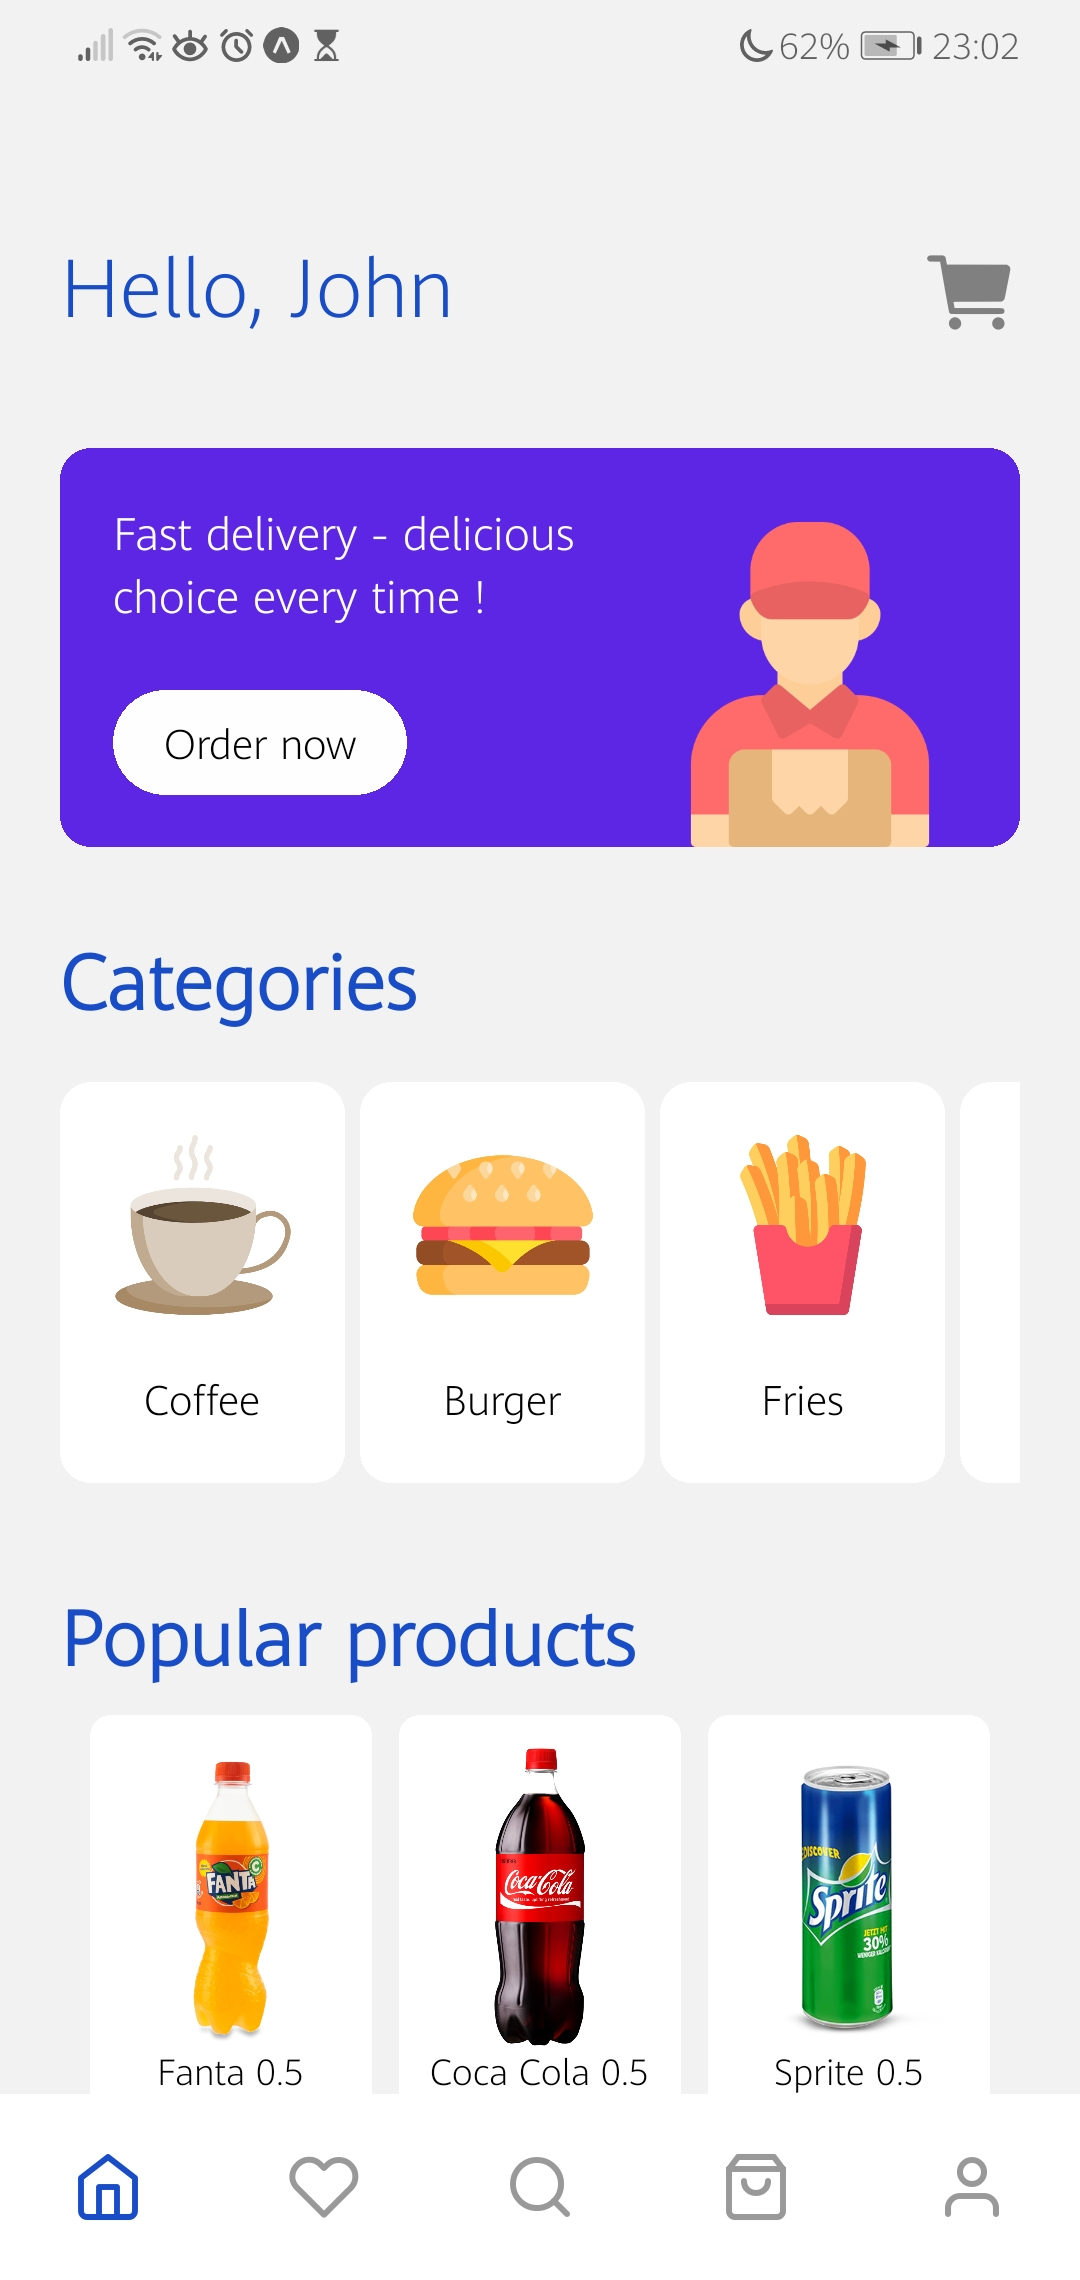
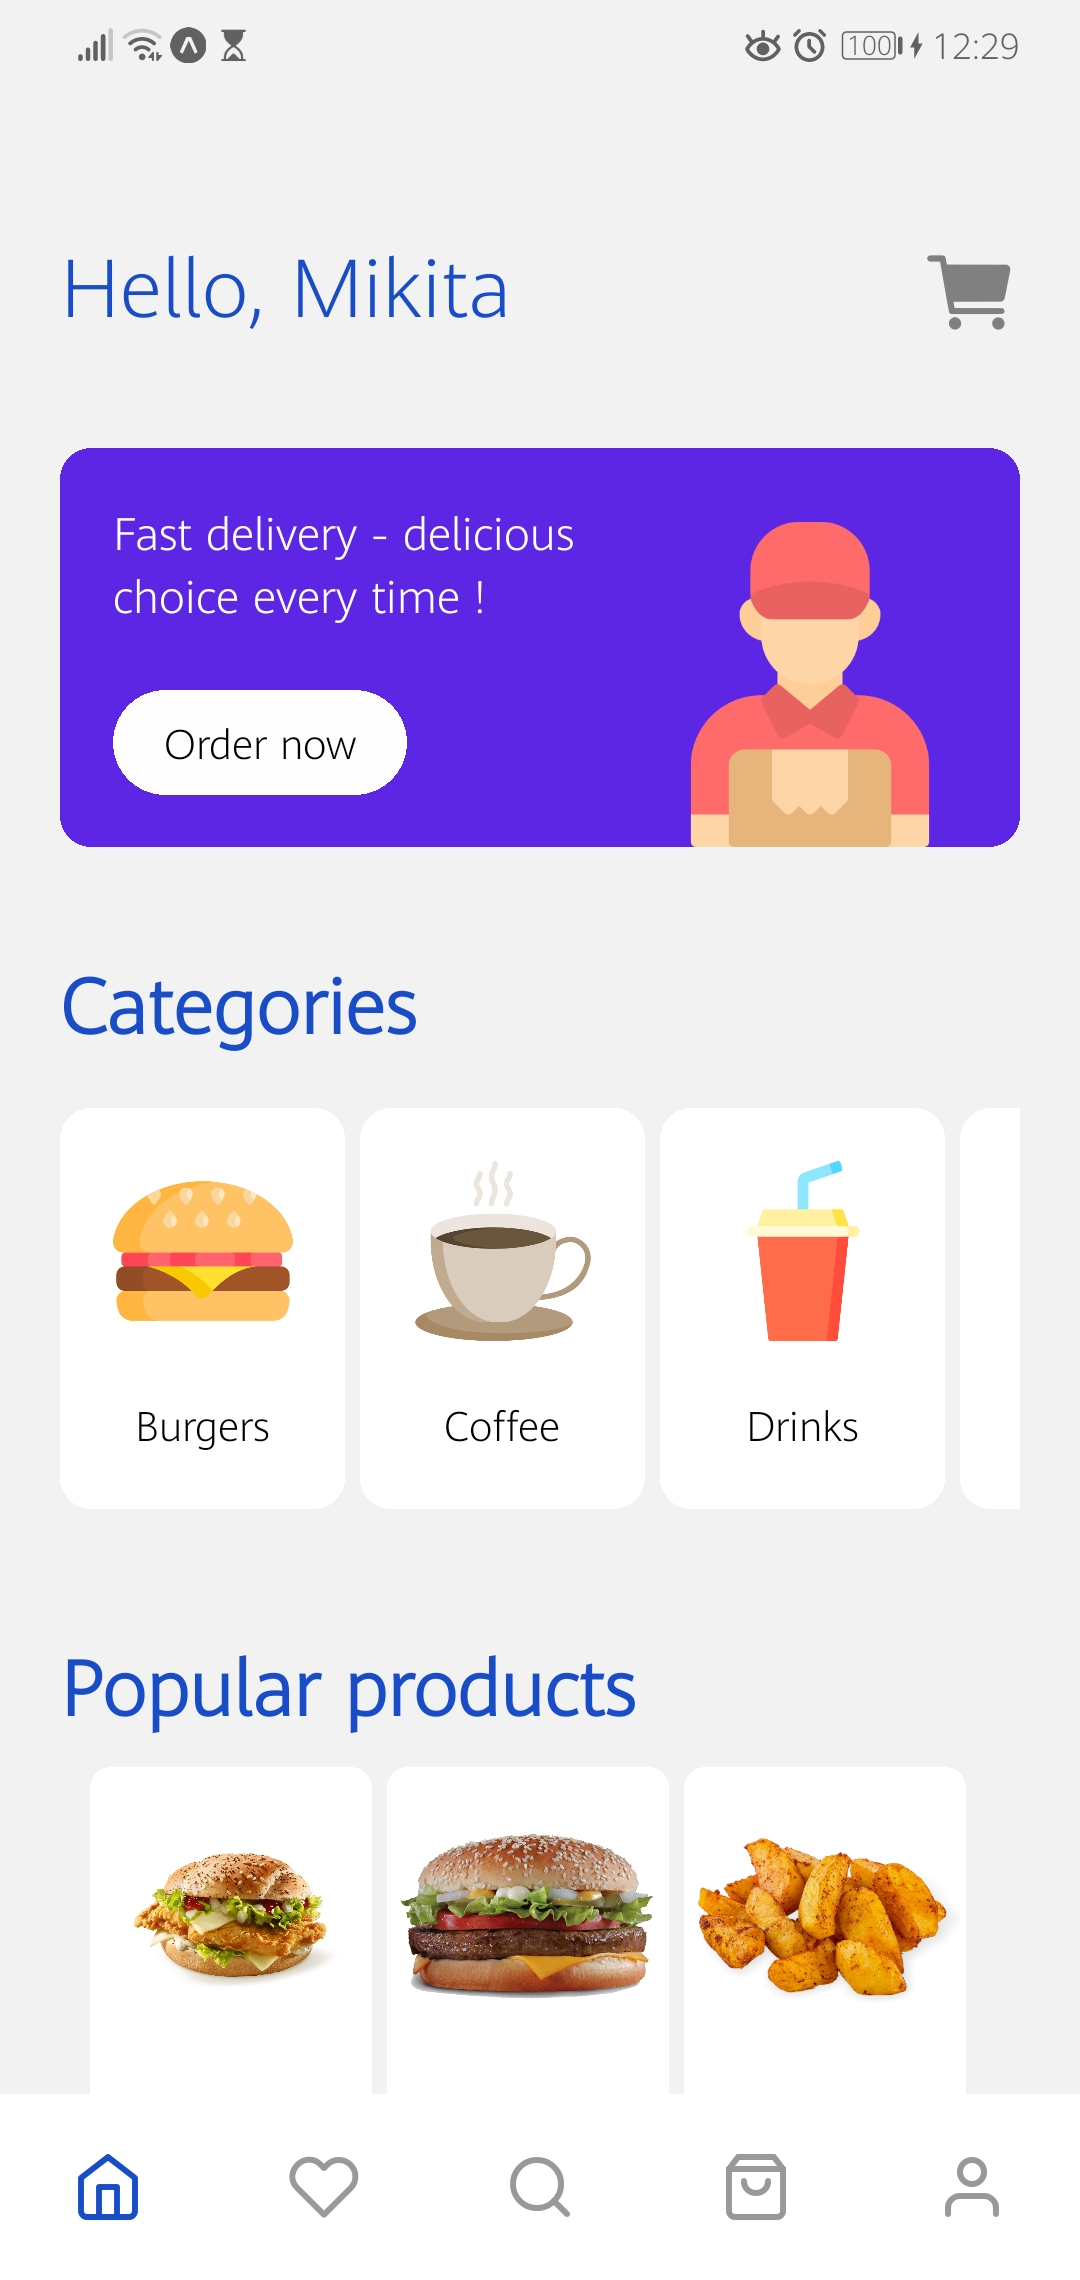
docs: demo

diff --git a/food-delivery-react-native/food-delivery-client/app/screens/auth/components/forms/RegisterForm.tsx b/food-delivery-react-native/food-delivery-client/app/screens/auth/components/forms/RegisterForm.tsx
@@ -88,7 +88,7 @@ export const RegisterForm: React.FC<RegisterFormProps> = ({ toggleFormMode }) =>
 
       <AnimatedNative.View style={shakingStyle}>
         <Button onPress={handleSubmit(onSubmit, onError)} className="mt-4">
-          Sign in
+          Sign up
         </Button>
       </AnimatedNative.View>
 

diff --git a/food-delivery-react-native/food-delivery-client/Readme.md b/food-delivery-react-native/food-delivery-client/Readme.md
@@ -9,9 +9,9 @@
 - _[TypeScript](https://www.typescriptlang.org/)_
 - _[React Native Navigation](https://reactnavigation.org/)_
 - _[NativeWind](https://www.nativewind.dev/) ([Tailwind CSS](https://tailwindcss.com/))_
-- _[React Hook Form](https://react-hook-form.com/)_
-- _[Axios HTTP Client](https://axios-http.com/docs/intro)_
 - _[TanStack React Query](https://tanstack.com/query/latest)_
+- _[Axios HTTP Client](https://axios-http.com/docs/intro)_
+- _[React Hook Form](https://react-hook-form.com/)_
 - _[React Native Async Storage](https://react-native-async-storage.github.io/async-storage/), [Expo SecureStore](https://docs.expo.dev/versions/latest/sdk/securestore/)_
 - _[Prettier](https://prettier.io/) with plugins_
 
@@ -19,23 +19,26 @@
 
 ### Demo:
 
-#### Home
 
-<div style="display: flex; column-gap: 20px; padding: 15px; justify-content: space-between;">
-<img src="./screenshots/home.jpg" width="250px" alt="dark theme" style="border-radius: 5px; overflow: hidden;"/>
+#### Home, Explorer, Search screens
+
+<div style="display: flex; column-gap: 20px; padding: 15px; justify-content: center;">
+<img src="./screenshots/home.jpg" width="250px" alt="Home" style="border-radius: 5px; overflow: hidden;"/>
+<img src="./screenshots/explorer.jpg" width="250px" alt="Explorer screen" style="border-radius: 5px; overflow: hidden;"/>
+<img src="./screenshots/search.jpg" width="250px" alt="Search screen" style="border-radius: 5px; overflow: hidden;"/>
 </div>
 
 #### Profile
 
 <div style="display: flex; column-gap: 20px; padding: 15px; justify-content: space-between;">
-<img src="./screenshots/profile.jpg" width="250px" alt="dark theme" style="border-radius: 5px; overflow: hidden;"/>
+<img src="./screenshots/profile.jpg" width="250px" alt="Profile screen" style="border-radius: 5px; overflow: hidden;"/>
 </div>
 
 #### Authorization
 
 <div style="display: flex; column-gap: 20px; padding: 15px; justify-content: center;">
-<img src="./screenshots/register.jpg" width="250px" alt="dark theme" style="border-radius: 5px; overflow: hidden;"/>
-<img src="./screenshots/login.jpg" width="250px" alt="light theme" style="border-radius: 5px; overflow: hidden;"/>
+<img src="./screenshots/register.jpg" width="250px" alt="Registration screen" style="border-radius: 5px; overflow: hidden;"/>
+<img src="./screenshots/login.jpg" width="250px" alt="Sign in screen" style="border-radius: 5px; overflow: hidden;"/>
 </div>
 ---
 
